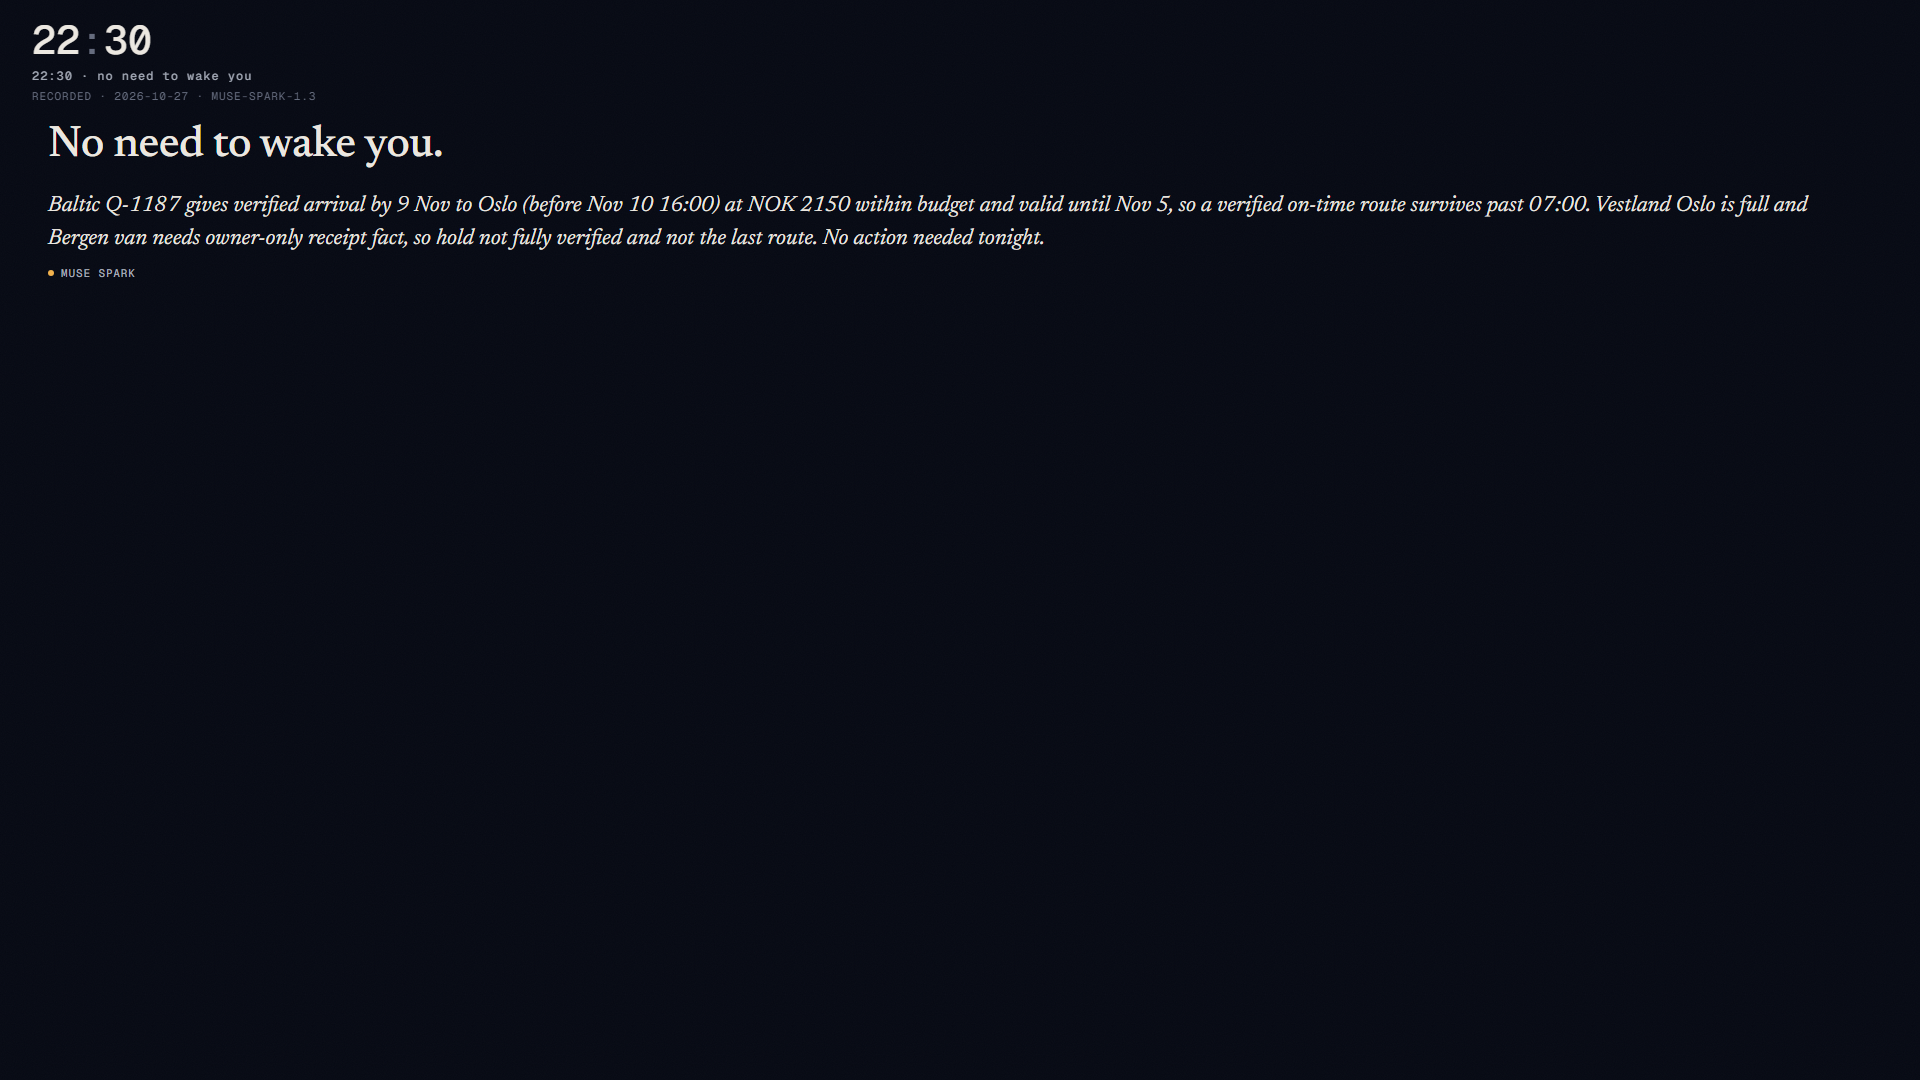
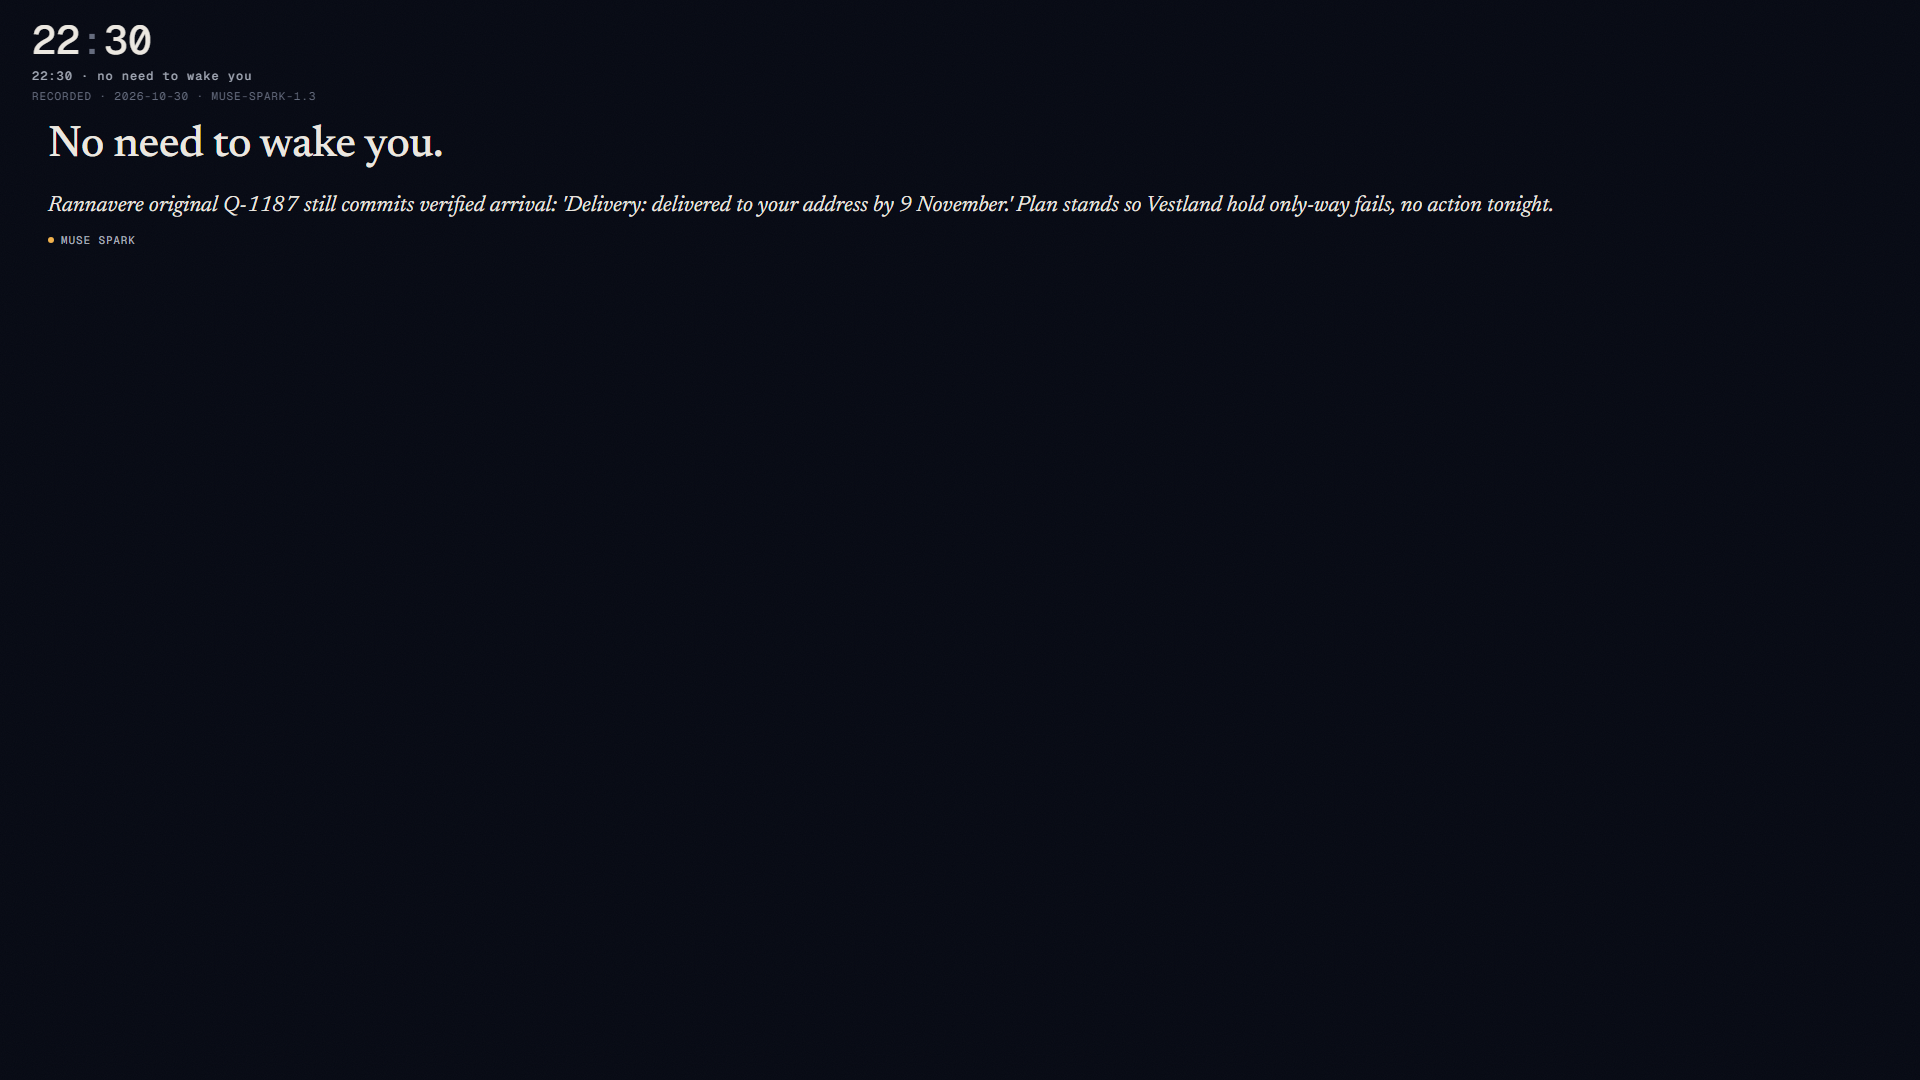
H1 part 4: render film and h1 screenshots from the new night, suite 326 green

Changed region(s): [[0.0312, 0.1833, 0.9375, 0.275]]

diff --git a/scripts/render_film.py b/scripts/render_film.py
@@ -34,7 +34,7 @@ sys.path.insert(0, str(ROOT))
 
 PORT = 8123
 BASE = f"http://127.0.0.1:{PORT}"
-RECORDED = "6c7c7c742513"
+RECORDED = "3f6fc9663151"
 FPS = 30
 
 VIEWPORTS = {"16x9": {"width": 1920, "height": 1080},

diff --git a/scripts/shot_s1a.py b/scripts/shot_s1a.py
@@ -21,7 +21,7 @@ sys.path.insert(0, str(ROOT))
 
 PORT = 8123
 BASE = f"http://127.0.0.1:{PORT}"
-RECORDED = "6c7c7c742513"
+RECORDED = "3f6fc9663151"
 
 
 def main() -> None:

diff --git a/BUILDLOG.md b/BUILDLOG.md
@@ -2,6 +2,11 @@
 
 A few lines per session: what was built, what failed, what was cut. Oslo time.
 
+## Fri Oct 30 — prompt H1 part 4: render the film for the rough cut
+
+- Rendered every beat in film/cues.json in both frames from the new recorded night (scripts/render_film.py + scripts/shot_s1a.py repointed at RECORDED 3f6fc9663151) into render/2026-10-30/ (git-ignored; added render/ to .gitignore): 20 per-beat WebMs plus the full 16x9 sequence as one WebM, 15,300 frames in all. Total render wall time 9,140 s (~2h32m): 101 s brief-16x9, 1,719 s first loop (7 beats, then one transient Page.goto timeout on diff-16x9), 6,610 s second loop (13 beats, then the sequence VP9 encode hit the script's 600 s ffmpeg timeout), 710 s sequence re-encode run directly. Folder size 5,315,550,108 bytes (~4.95 GB), frames plus 21 WebMs (sequence 170 s / 1.9 MB; beats at their cue lengths 10-30 s, verified with ffprobe).
+- Refreshed docs/film/beats/*.png (10 stills) and docs/film/dawn-5s.webm from the new night; re-took the s1a-fix screenshots into docs/screens/h1/ (night/question/morning at 390x844 full+fold and 1440x900). Suite 326 green.
+
 ## Fri Oct 30 — prompt H1 part 3: two morning-page nits
 
 - (a) "Who said what" no longer shows a stray "- " inside each bullet: _ledger_section strips a leading "- " per line at render time; the stored fact_ledger event and ledger.render_lines are untouched.
